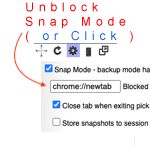
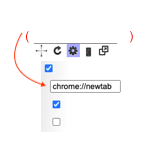
clear text from background image

diff --git a/src/popup.js b/src/popup.js
@@ -672,10 +672,10 @@ var errorTypes={
 			{x:30,y:30,w:100,h:25,t9n:'orClick',textAlign:'center',fillStyle:'rgb(0,0,200)',font:'15px sans-serif'},
 
 
-			{x:54,y:72,t9n:'snapMode',textAlign:'left',fillStyle:'rgb(255,0,0)',font:'7px sans-serif'},
-			{x:123,y:89,t9n:'snapModeBlock',textAlign:'left',fillStyle:'rgb(255,0,0)',font:'7px sans-serif'},
-			{x:64,y:108,t9n:'snapModeCloseTab',textAlign:'left',fillStyle:'rgb(255,0,0)',font:'7px sans-serif'},
-			{x:64,y:126,t9n:'snapModeCloseTab',textAlign:'left',fillStyle:'rgb(255,0,0)',font:'7px sans-serif'}
+			{x:54,y:72,t9n:'snapMode',textAlign:'left',fillStyle:'rgb(0,0,0)',font:'7px sans-serif'},
+			{x:123,y:89,t9n:'snapModeBlock',textAlign:'left',fillStyle:'rgb(0,0,0)',font:'7px sans-serif'},
+			{x:64,y:108,t9n:'snapModeCloseTab',textAlign:'left',fillStyle:'rgb(0,0,0)',font:'7px sans-serif'},
+			{x:64,y:126,t9n:'snapModeCloseTab',textAlign:'left',fillStyle:'rgb(0,0,0)',font:'7px sans-serif'}
 			// {x:0,y:50,w:150,h:19,message:'9e9',textAlign:'center',fillStyle:'rgb(255,0,0)',font:'24px sans-serif'}
 
 		]
